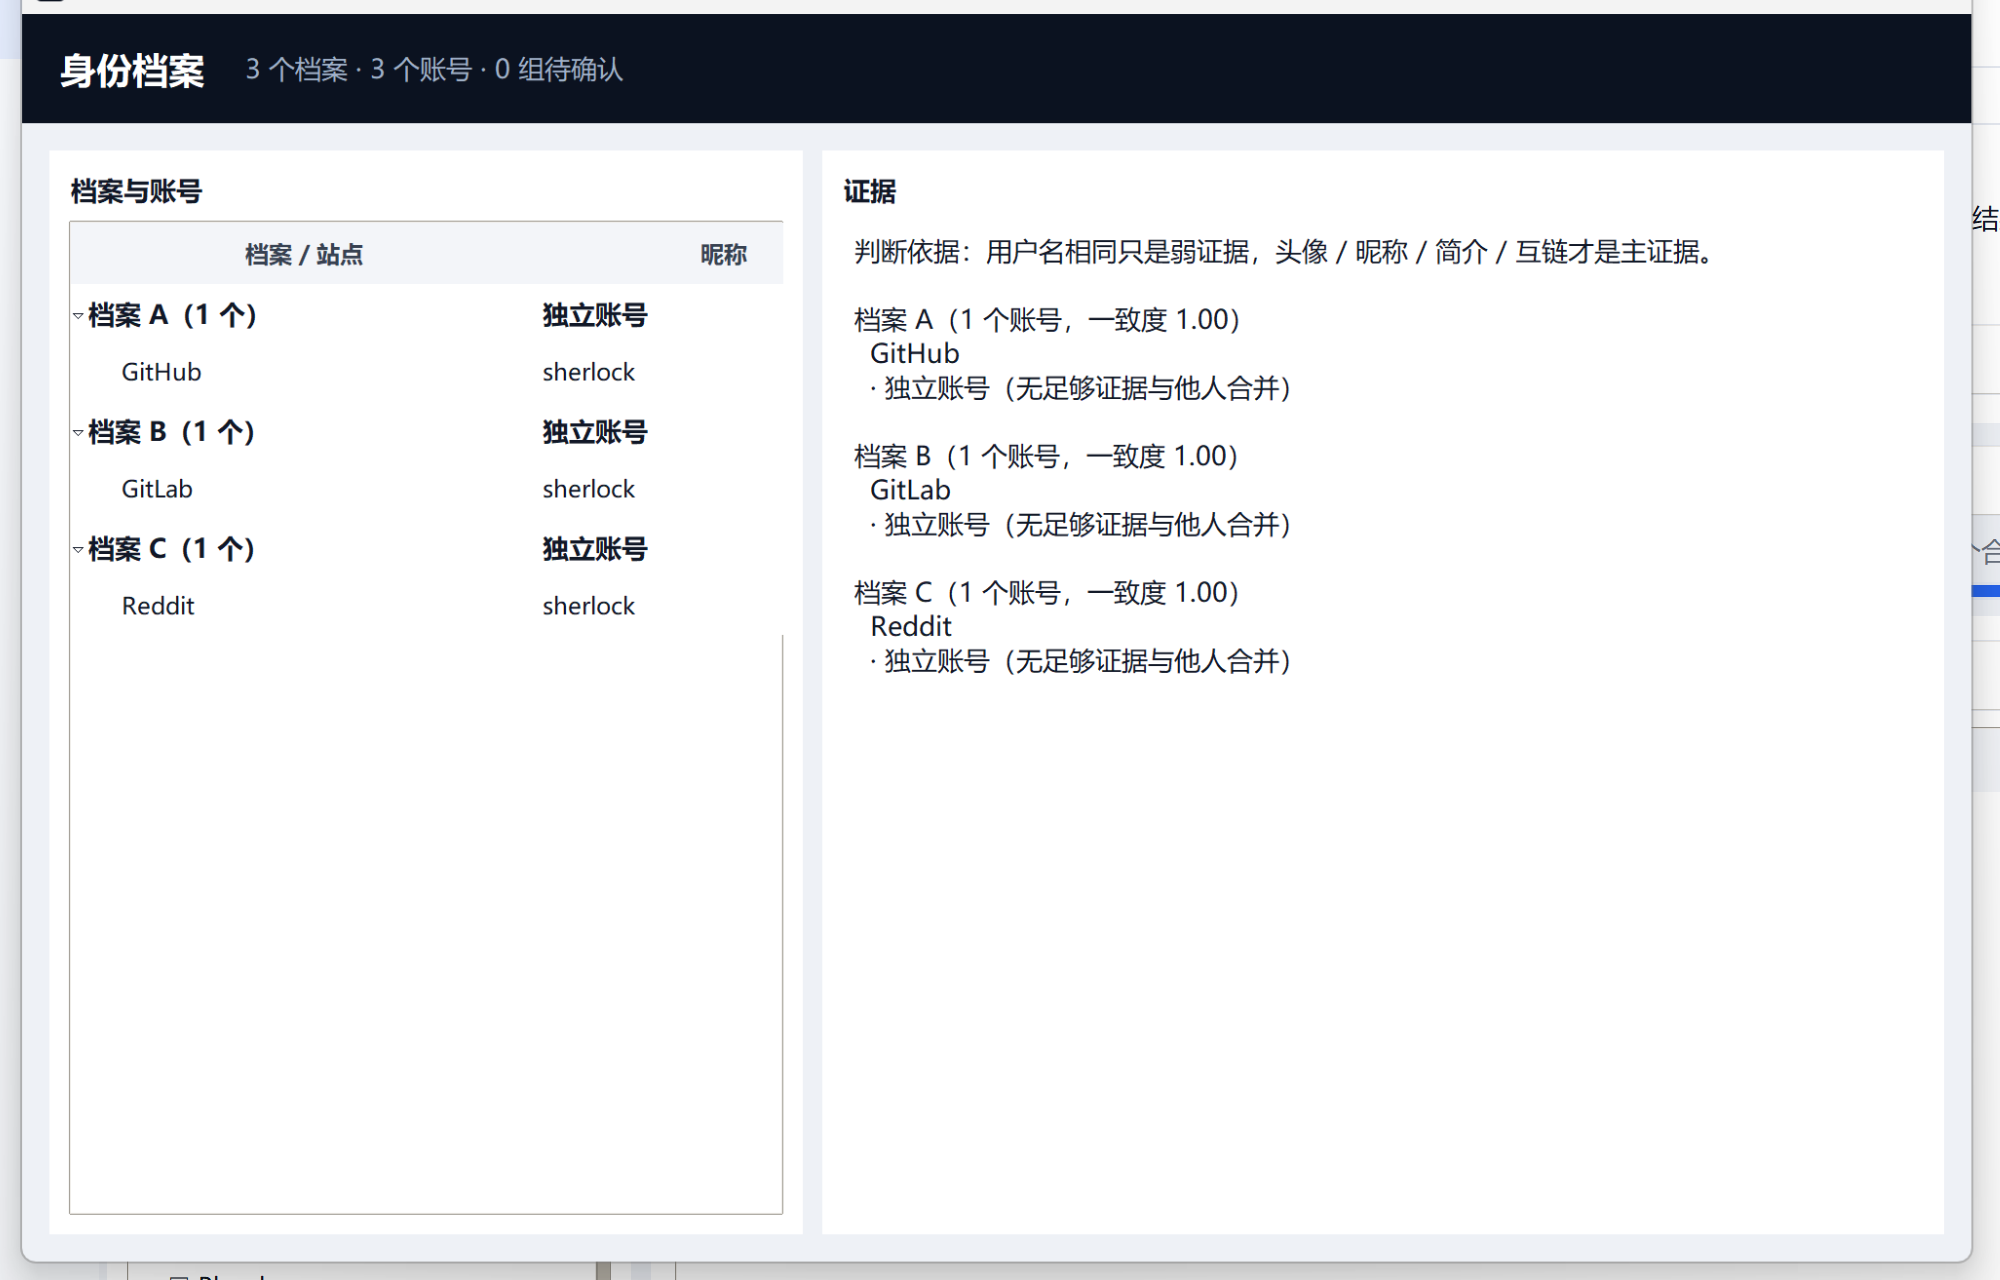
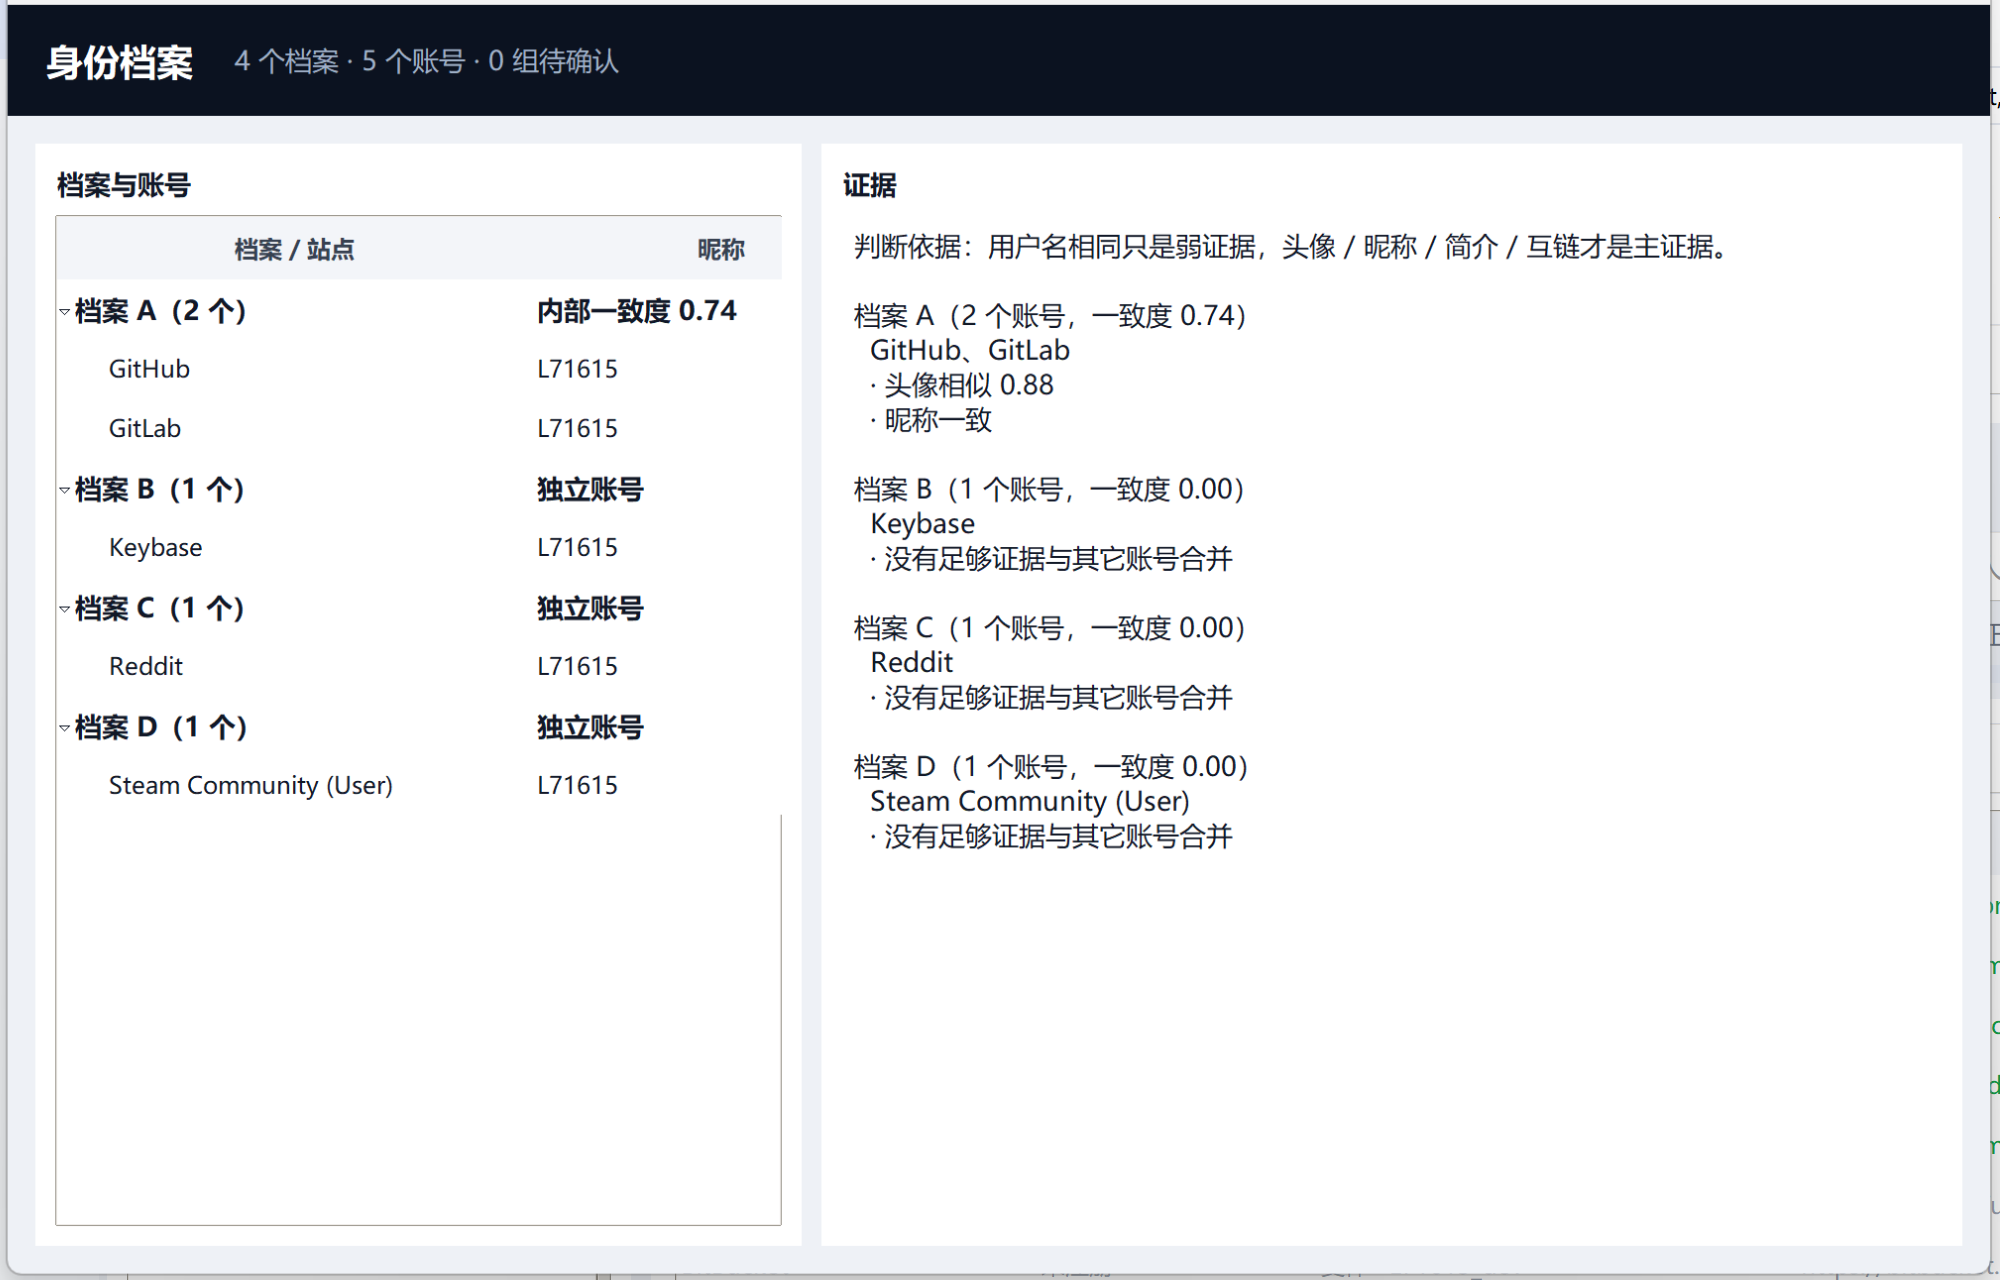
docs: 截图统一用 L71615 演示数据并打码个人信息

diff --git a/holmes_desk/ui/dialog_alias.py b/holmes_desk/ui/dialog_alias.py
@@ -21,7 +21,7 @@ class AliasDialog(tk.Toplevel):
         self.aliases = aliases
         self.on_merge = on_merge
         self.transient(master)
-        self.geometry(f"{px(900)}x{px(470)}")
+        self.geometry(f"{px(1040)}x{px(470)}")
         self.minsize(px(720), px(400))
 
         header = tk.Frame(self, bg=theme.HEADER, height=px(56))
@@ -75,10 +75,10 @@ class AliasDialog(tk.Toplevel):
         columns = ("a", "b", "score", "why")
         self.tree = ttk.Treeview(card, columns=columns, show="headings", height=10)
         for key, text, width, anchor in (
-            ("a", "账号 A", 210, "w"),
-            ("b", "账号 B", 210, "w"),
-            ("score", "证据分", 80, "center"),
-            ("why", "理由", 420, "w"),
+            ("a", "账号 A", 190, "w"),
+            ("b", "账号 B", 190, "w"),
+            ("score", "证据分", 70, "center"),
+            ("why", "理由", 380, "w"),
         ):
             self.tree.heading(key, text=text, anchor=anchor)
             self.tree.column(key, width=self.px(width), anchor=anchor, stretch=key == "why")

diff --git a/README.md b/README.md
@@ -5,6 +5,9 @@
 
 ![检索页](docs/shot-search.png)
 
+> 说明：本文所有截图都是拿作者自己的账号 `L71615` 跑的演示数据；截图里的邮箱、IM、
+> 个人站点均为示例值（`example.com` 之类），真实联系方式在自查模式下会被打码。
+
 ## 这是什么
 
 HolmesDesk 是一个 Windows 桌面小程序：填用户名 → 点开始 → 得到一份「这个人在哪些站有账号」的清单。
